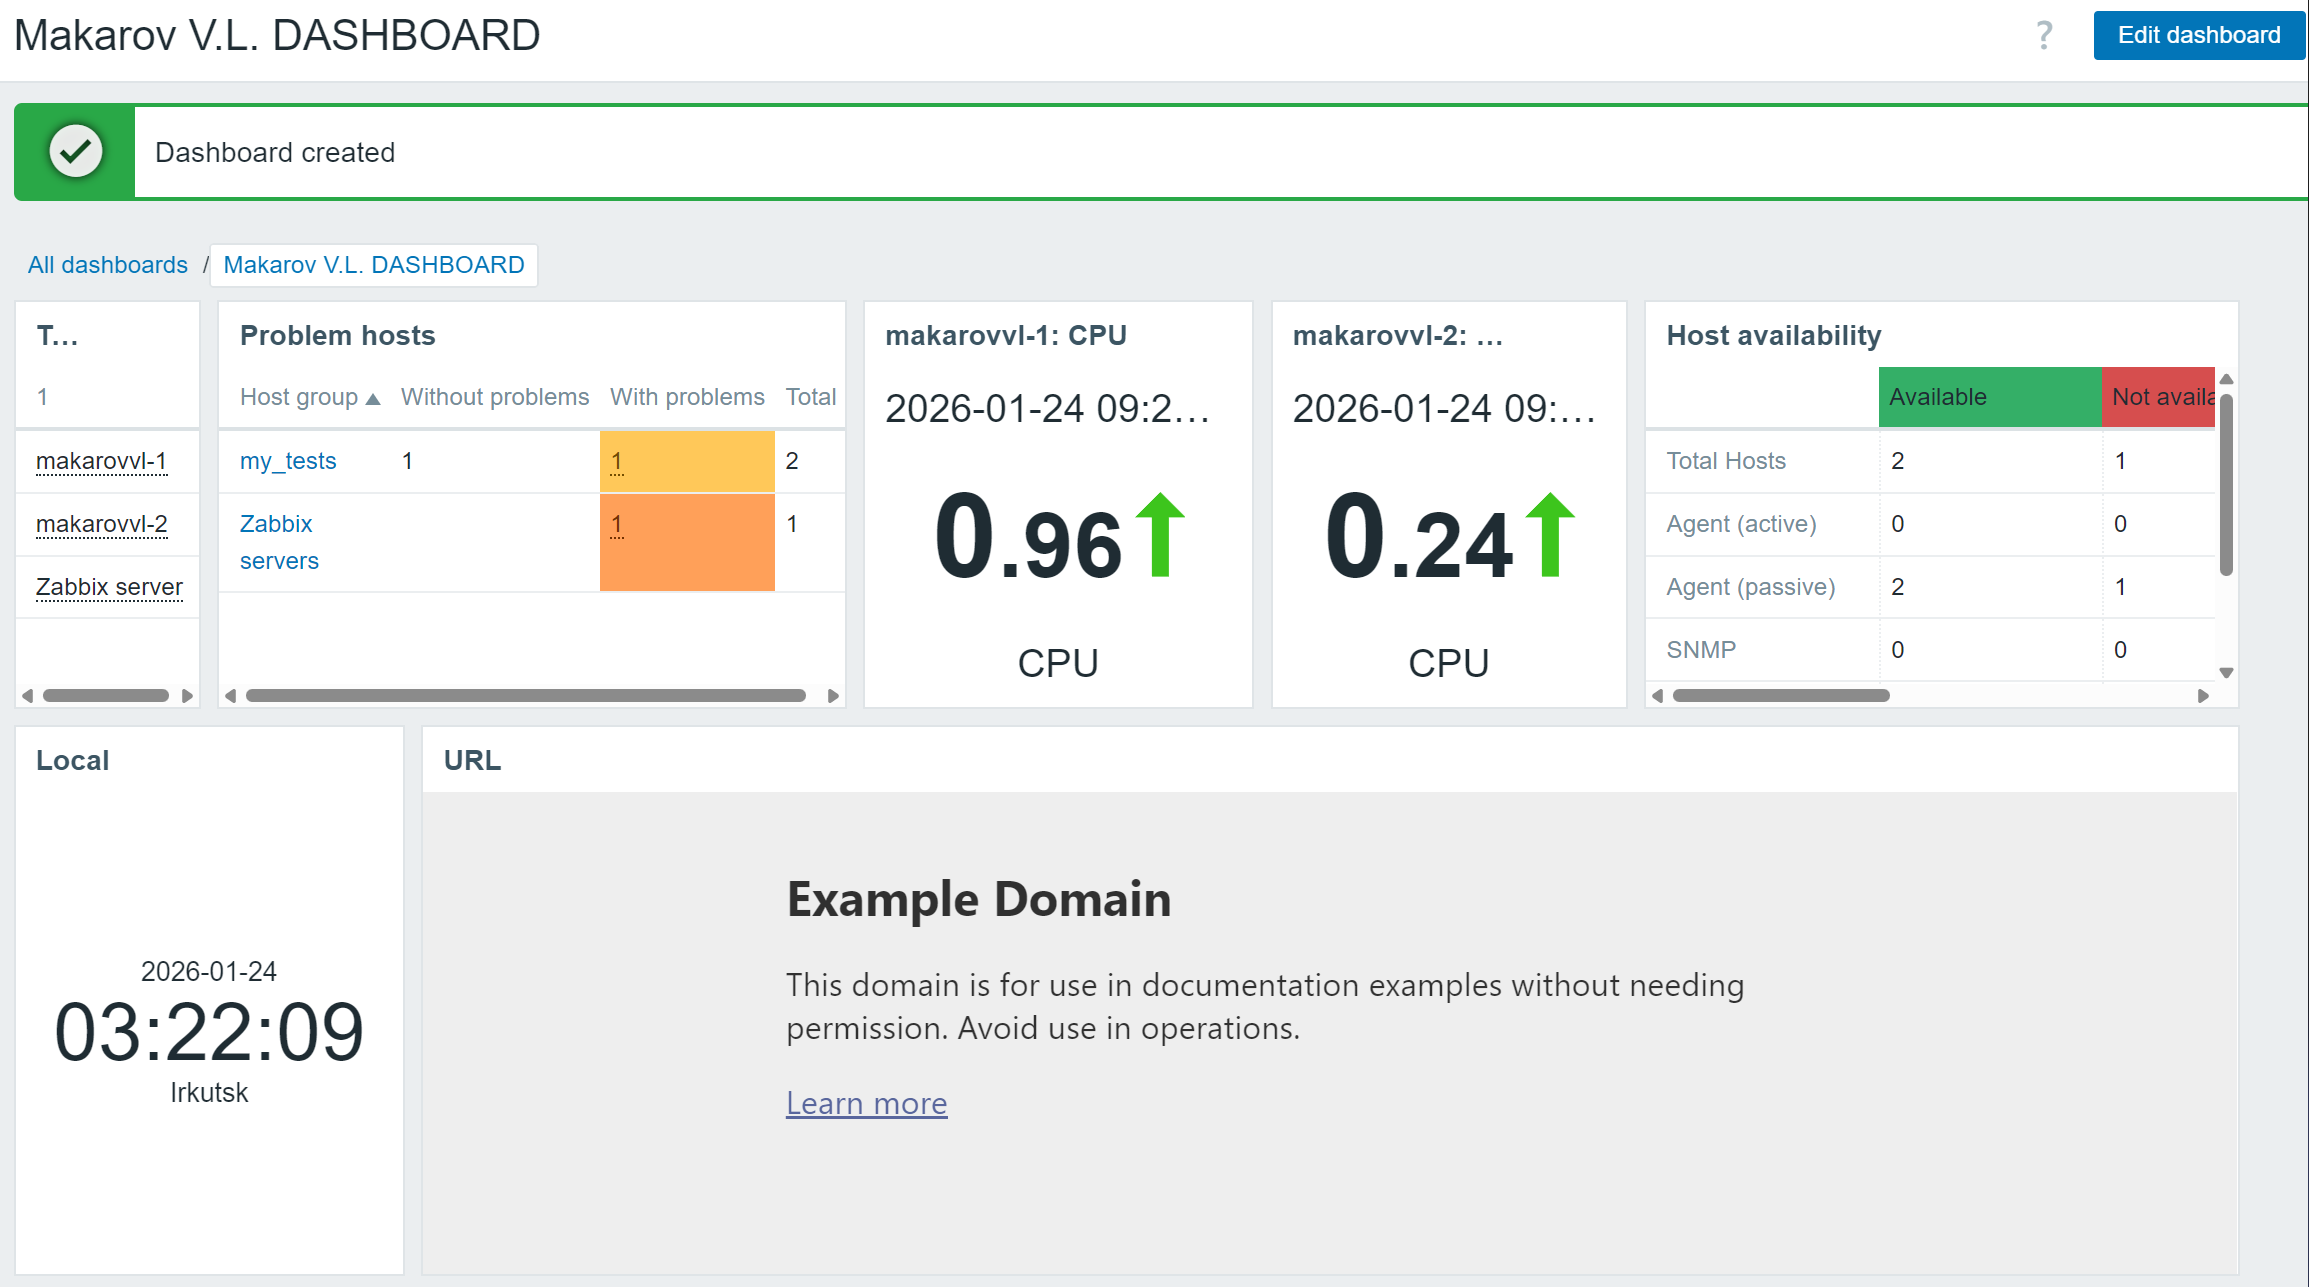
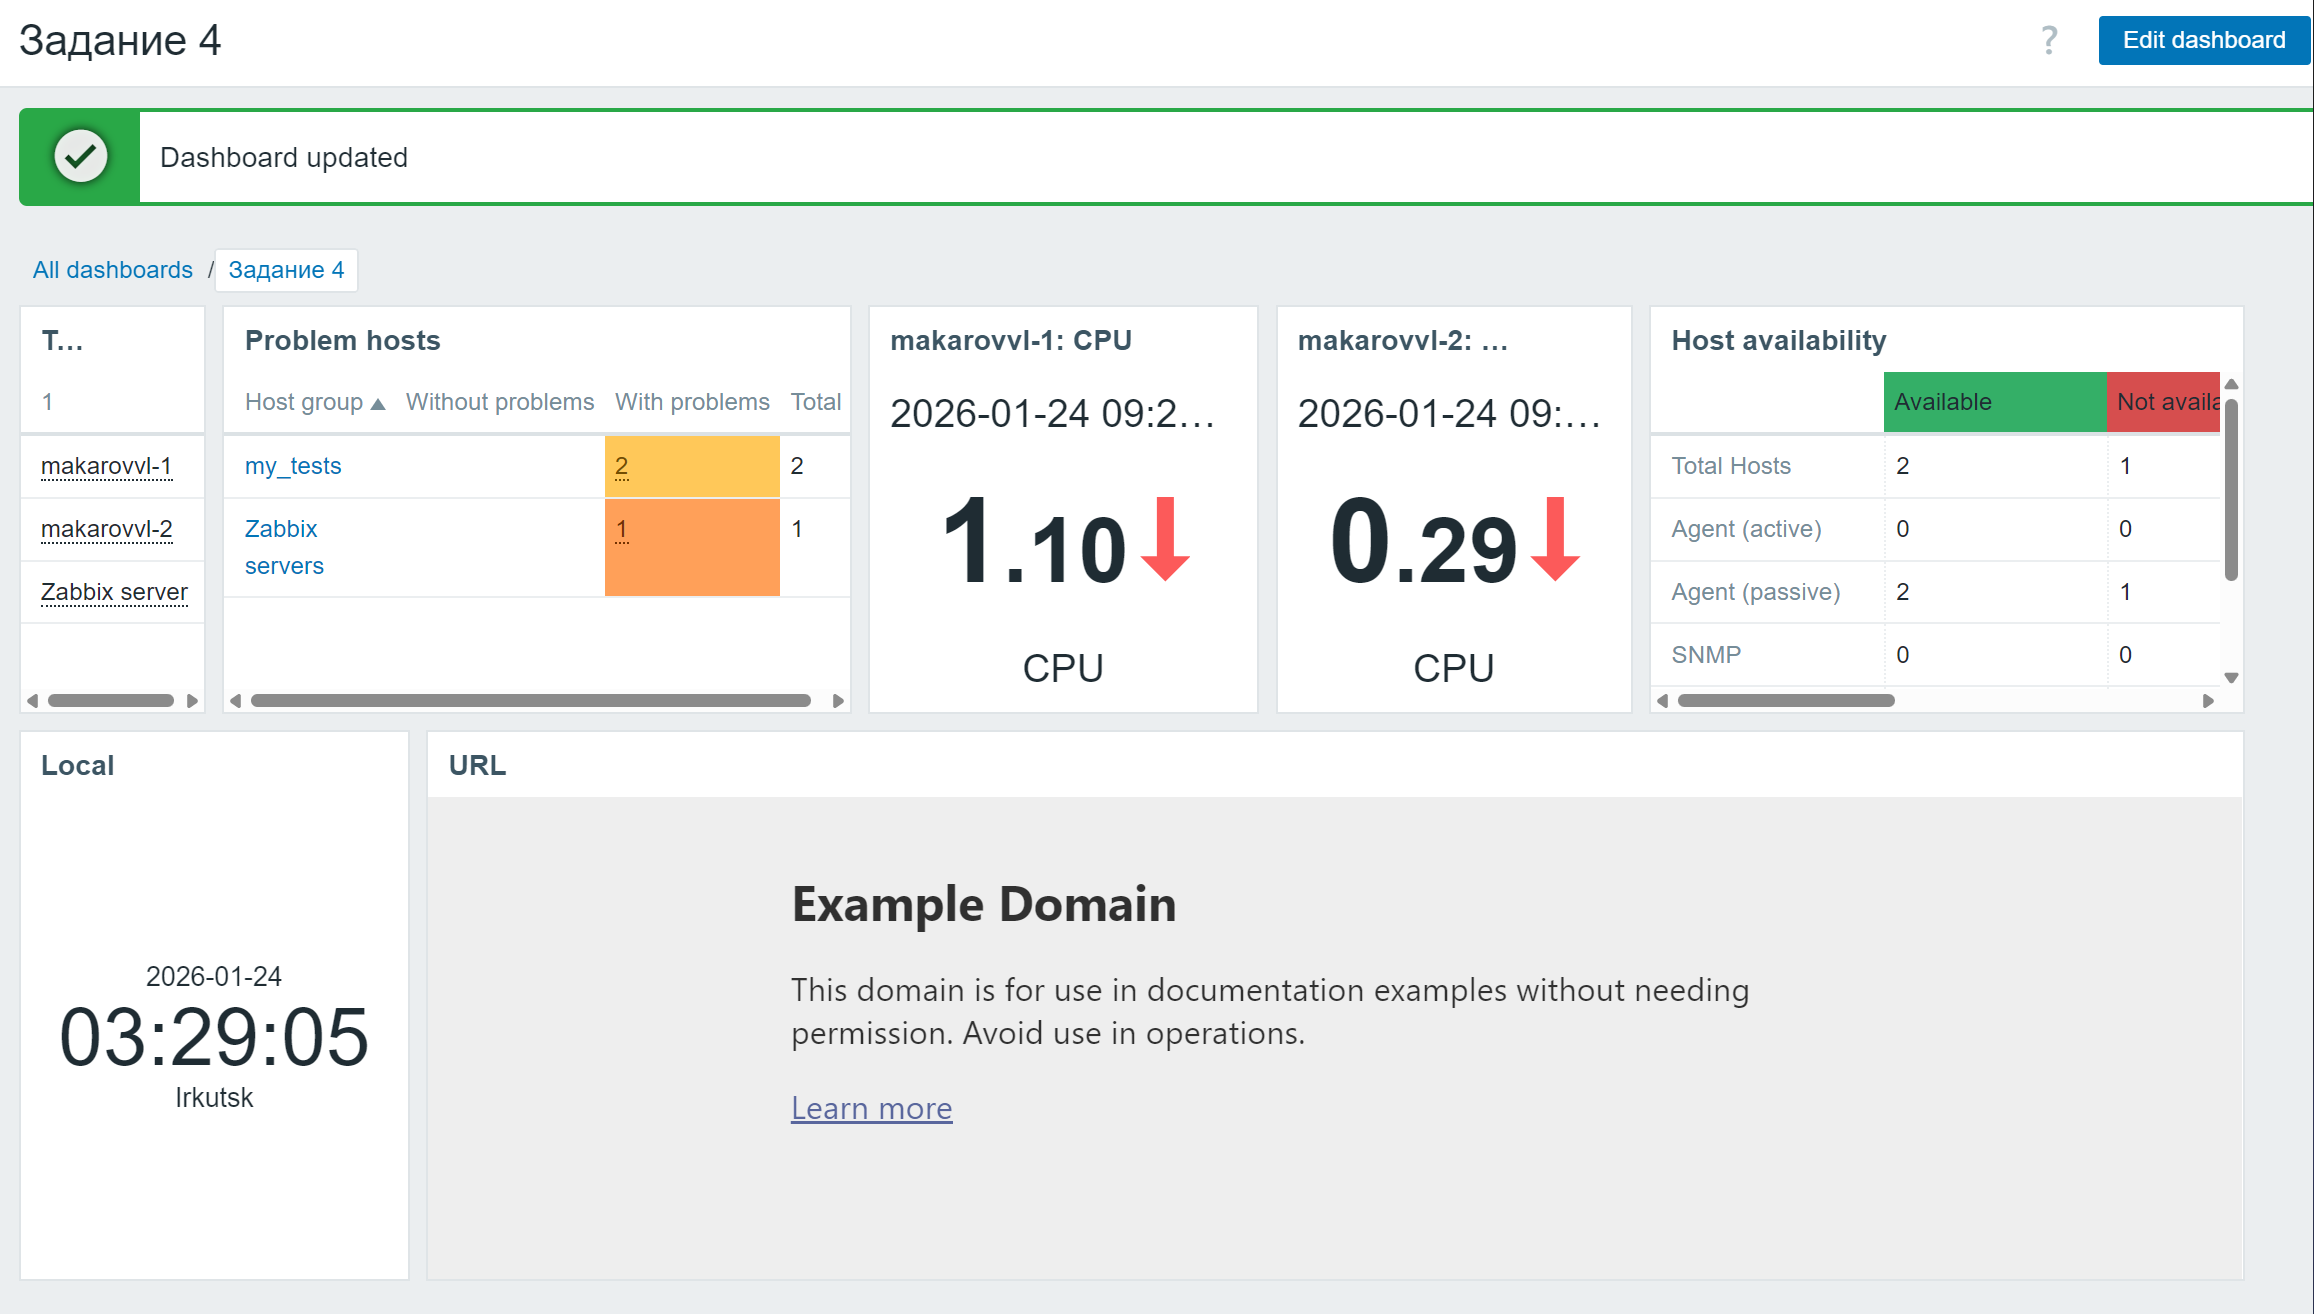
upd readme and png

diff --git a/README.md b/README.md
@@ -1,4 +1,4 @@
-# Домашнее задание к занятию "Zabbix" - `Макаров Виктор Леонидович`
+# Домашнее задание к занятию "`Система мониторинга Zabbix. Часть 2`" - `Макаров Виктор Леонидович`
 
 
 ### Инструкция по выполнению домашнего задания
